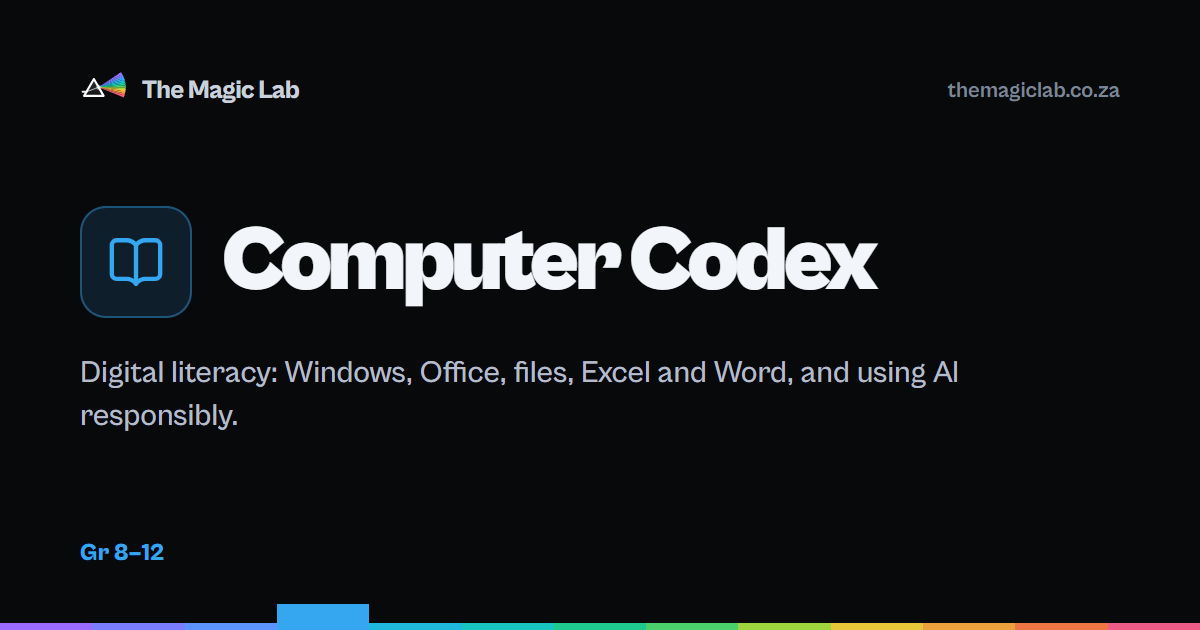
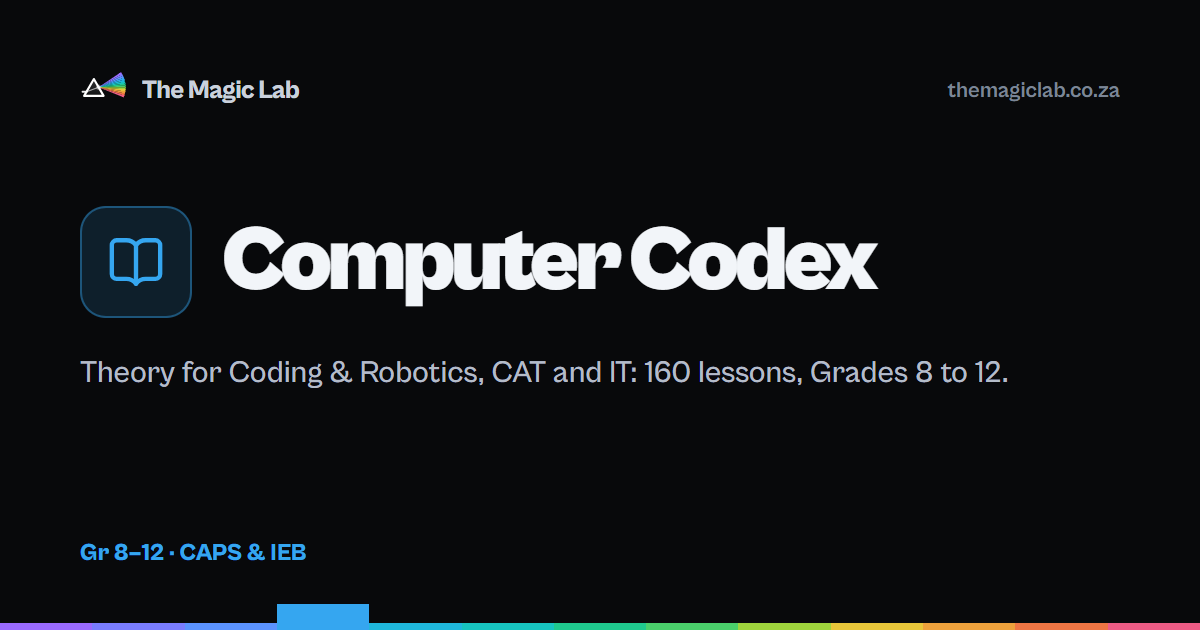
Computer Codex: describe all five tracks, not just Coding & Robotics
Its tool page, homepage card, social card and share text only described
the Grade 8–9 Coding & Robotics track (the app's default view). Computer
Codex has 160 lessons in five tracks: Coding & Robotics (Gr 8–9), and
CAT and IT theory for Grades 10–12 in separate CAPS and IEB tracks. The
page now lists each track's strands, and points IT learners to Code
Conjurer for the Java practical.

Also: seo-build.py no longer skips pages another build script has just
regenerated (it treated them as someone's unfinished edits, so the tool
pages lost their head tags); build-og-cards.js takes OG_SERVER.

Changed region(s): [[0.0617, 0.573, 0.8325, 0.6937], [0.1542, 0.8444, 0.2467, 0.9048]]

diff --git a/tools/computer-codex.html b/tools/computer-codex.html
@@ -7,14 +7,14 @@
 <script src="/assets/theme.js"></script>
   <meta name="viewport" content="width=device-width, initial-scale=1.0">
   <meta name="theme-color" content="#08090b">
-  <title>Computer Codex — Digital literacy: Windows, Word, Excel, computational thinking and AI (Grade 8–9)</title>
+  <title>Computer Codex — CAT, IT theory and Coding &amp; Robotics lessons, Grades 8–12 (CAPS &amp; IEB)</title>
 <!-- ml-seo: generated by scripts/seo-build.py, edit the script not this block -->
-<meta name="description" content="Twenty-seven lessons of digital literacy for Grade 8–9 Coding &amp; Robotics: Windows and files, Word, Excel formulas and charts, computational thinking, pseudo code, flow diagrams and AI, each with a quiz.">
+<meta name="description" content="160 theory lessons in five tracks: Coding &amp; Robotics for Grades 8–9, and Computer Applications Technology and Information Technology for Grades 10–12, each written separately for CAPS and IEB, with a quiz in every lesson.">
 <link rel="canonical" href="https://themagiclab.co.za/tools/computer-codex.html">
 <meta property="og:type" content="website">
 <meta property="og:site_name" content="The Magic Lab">
-<meta property="og:title" content="Computer Codex — Digital literacy: Windows, Word, Excel, computational thinking and AI (Grade 8–9)">
-<meta property="og:description" content="Twenty-seven lessons of digital literacy for Grade 8–9 Coding &amp; Robotics: Windows and files, Word, Excel formulas and charts, computational thinking, pseudo code, flow diagrams and AI, each with a quiz.">
+<meta property="og:title" content="Computer Codex — CAT, IT theory and Coding &amp; Robotics lessons, Grades 8–12 (CAPS &amp; IEB)">
+<meta property="og:description" content="160 theory lessons in five tracks: Coding &amp; Robotics for Grades 8–9, and Computer Applications Technology and Information Technology for Grades 10–12, each written separately for CAPS and IEB, with a quiz in every lesson.">
 <meta property="og:url" content="https://themagiclab.co.za/tools/computer-codex.html">
 <meta property="og:image" content="https://themagiclab.co.za/assets/og/computer-codex.png">
 <meta property="og:image:width" content="1200">
@@ -30,7 +30,7 @@
   <link rel="stylesheet" href="/assets/magic-lab.css">
   <link rel="stylesheet" href="/assets/tool-landing.css">
   <link rel="stylesheet" href="/auth-modal.css">
-  <script type="application/ld+json">{"@context": "https://schema.org", "@type": "WebPage", "name": "Computer Codex — Digital literacy: Windows, Word, Excel, computational thinking and AI (Grade 8–9)", "description": "Twenty-seven lessons of digital literacy for Grade 8–9 Coding & Robotics: Windows and files, Word, Excel formulas and charts, computational thinking, pseudo code, flow diagrams and AI, each with a quiz.", "url": "https://themagiclab.co.za/tools/computer-codex.html", "about": {"@type": "SoftwareApplication", "name": "Computer Codex", "applicationCategory": "EducationalApplication", "operatingSystem": "Web browser", "url": "https://themagiclab.co.za/computer-codex.html"}, "breadcrumb": {"@type": "BreadcrumbList", "itemListElement": [{"@type": "ListItem", "position": 1, "name": "The Magic Lab", "item": "https://themagiclab.co.za/"}, {"@type": "ListItem", "position": 2, "name": "Computer Codex", "item": "https://themagiclab.co.za/tools/computer-codex.html"}]}}</script>
+  <script type="application/ld+json">{"@context": "https://schema.org", "@type": "WebPage", "name": "Computer Codex — CAT, IT theory and Coding & Robotics lessons, Grades 8–12 (CAPS & IEB)", "description": "160 theory lessons in five tracks: Coding & Robotics for Grades 8–9, and Computer Applications Technology and Information Technology for Grades 10–12, each written separately for CAPS and IEB, with a quiz in every lesson.", "url": "https://themagiclab.co.za/tools/computer-codex.html", "about": {"@type": "SoftwareApplication", "name": "Computer Codex", "applicationCategory": "EducationalApplication", "operatingSystem": "Web browser", "url": "https://themagiclab.co.za/computer-codex.html"}, "breadcrumb": {"@type": "BreadcrumbList", "itemListElement": [{"@type": "ListItem", "position": 1, "name": "The Magic Lab", "item": "https://themagiclab.co.za/"}, {"@type": "ListItem", "position": 2, "name": "Computer Codex", "item": "https://themagiclab.co.za/tools/computer-codex.html"}]}}</script>
 </head>
 <body style="--fam: var(--t-codex)">
   <a class="ml-skip" href="#ml-main">Skip to content</a>
@@ -47,9 +47,9 @@
   <main id="ml-main" tabindex="-1">
     <section class="ml-shell tl-lead">
       <div class="tl-name"><span class="tl-icon"><i data-lucide="book-open"></i></span>Computer Codex</div>
-      <div class="tl-eyebrow ml-label"><span class="dot"></span>Grade 8–9 · Coding &amp; Robotics · Digital literacy</div>
-      <h1>The computer skills every learner needs.</h1>
-      <p>Computer Codex covers the practical computer skills learners are expected to have and are rarely taught: using Windows and organising files, Word and Excel, and then the thinking behind coding, from decomposition and algorithms to pseudo code, flow diagrams and how AI and machine learning work.</p>
+      <div class="tl-eyebrow ml-label"><span class="dot"></span>Grade 8–12 · Coding &amp; Robotics, CAT and IT · CAPS &amp; IEB</div>
+      <h1>The theory behind CAT, IT and Coding &amp; Robotics.</h1>
+      <p>Computer Codex holds the theory side of three computing subjects in one place: Coding &amp; Robotics for Grades 8 and 9, and Computer Applications Technology and Information Technology for Grades 10 to 12, with separate CAPS and IEB tracks for both. That is 160 lessons, from using Windows and Excel to networks, databases, OOP, cybercrime and the law, each ending in a quiz.</p>
       <div class="tl-cta" data-tl-cta data-app="/computer-codex.html" data-name="Computer Codex">
         <a class="ml-btn ml-btn--primary" href="/index.html?auth=required&amp;mode=signup&amp;next=/computer-codex.html" data-tl-primary>Create a free account</a>
         <a class="ml-btn ml-btn--ghost" href="/index.html?auth=required&amp;next=/computer-codex.html" data-tl-secondary>Sign in</a>
@@ -59,29 +59,29 @@
 
     <section class="ml-shell">
       <figure class="tl-shot">
-        <img src="/assets/tools/computer-codex.jpg" width="1440" height="900" alt="Computer Codex: Lesson 1, What is an Operating System?" loading="eager">
-        <figcaption>Lesson 1, What is an Operating System?</figcaption>
+        <img src="/assets/tools/computer-codex.jpg" width="1440" height="900" alt="Computer Codex: Lesson 1 of the Coding &amp; Robotics track. Learners pick their subject and grade at the top." loading="eager">
+        <figcaption>Lesson 1 of the Coding &amp; Robotics track. Learners pick their subject and grade at the top.</figcaption>
       </figure>
     </section>
 
     <section class="ml-shell tl-section">
       <h2>What learners do</h2>
-      <div class="tl-feats"><div class="tl-feat"><span class="tl-ficon"><i data-lucide="monitor"></i></span><h3>Hands-on Office skills</h3><p>Word and Excel lessons, from saving and styles to SUMIF, absolute references and charts.</p></div><div class="tl-feat"><span class="tl-ficon"><i data-lucide="puzzle"></i></span><h3>Computational thinking</h3><p>Decomposition, pattern recognition, abstraction and algorithm design, with worked examples.</p></div><div class="tl-feat"><span class="tl-ficon"><i data-lucide="workflow"></i></span><h3>Pseudo code and flow diagrams</h3><p>Plan programs in plain English, then trace and build flow diagrams.</p></div><div class="tl-feat"><span class="tl-ficon"><i data-lucide="check-circle"></i></span><h3>A quiz with every lesson</h3><p>Each lesson ends in a quiz, and 70% completes it.</p></div></div>
+      <div class="tl-feats"><div class="tl-feat"><span class="tl-ficon"><i data-lucide="library"></i></span><h3>Five tracks, one tool</h3><p>Coding &amp; Robotics, CAT (CAPS and IEB) and IT (CAPS and IEB), chosen from the subject and grade menu.</p></div><div class="tl-feat"><span class="tl-ficon"><i data-lucide="git-branch"></i></span><h3>CAPS and IEB written separately</h3><p>The CAPS and IEB tracks follow their own curricula and terminology, not one text relabelled.</p></div><div class="tl-feat"><span class="tl-ficon"><i data-lucide="layers"></i></span><h3>Grade by grade</h3><p>Each senior track runs through Grade 10, 11 and 12, with units for every strand of the subject.</p></div><div class="tl-feat"><span class="tl-ficon"><i data-lucide="check-circle"></i></span><h3>A quiz with every lesson</h3><p>Each lesson ends in a quiz with an explanation for every answer; 70% completes it.</p></div></div>
     </section>
 
     <section class="ml-shell tl-section">
       <h2>What&rsquo;s inside</h2>
-      <div class="tl-groups"><div class="tl-group"><h3>Using a computer</h3><ul><li>The Windows operating system</li><li>File extensions</li><li>Microsoft Office and the ribbon</li></ul></div><div class="tl-group"><h3>Office</h3><ul><li>Microsoft Word: documents, formatting and styles</li><li>Microsoft Excel: formulas and functions, COUNTIF and SUMIF, relative and absolute references, charts</li></ul></div><div class="tl-group"><h3>Thinking like a programmer</h3><ul><li>Computational thinking</li><li>Pseudo code</li><li>Flow diagrams</li><li>Artificial intelligence and machine learning</li></ul></div></div>
+      <div class="tl-groups"><div class="tl-group"><h3>Coding &amp; Robotics · Gr 8–9 · 27 lessons</h3><ul><li>Windows, files and file extensions</li><li>Word and Excel: formulas, COUNTIF and SUMIF, absolute references, charts</li><li>Computational thinking: decomposition, patterns, abstraction, algorithms</li><li>Pseudo code and flow diagrams</li><li>AI, machine learning and large language models</li></ul></div><div class="tl-group"><h3>CAT · Gr 10–12 · CAPS (30) and IEB (29)</h3><ul><li>Systems technologies: hardware, software, choosing systems, troubleshooting</li><li>Network and internet technologies: LANs, WANs, the web, cloud and IoT</li><li>Solution development: spreadsheets, databases and HTML</li><li>Information management and preparing for the PAT</li><li>Social implications: ergonomics, green computing, security, ethics and the law</li></ul></div><div class="tl-group"><h3>IT theory · Gr 10–12 · CAPS (36) and IEB (38)</h3><ul><li>Systems technologies: number systems, the CPU and machine cycle, operating systems and virtualisation</li><li>Communication technologies: networks, topologies, mobile and wireless</li><li>Solution development: algorithms, OOP and GUI programming, arrays, file handling, software engineering</li><li>Data and information management: relational databases, SQL, big data and data mining</li><li>Social implications: cybercrime, privacy, the deep web and emerging technology</li></ul></div></div>
     </section>
 
     <section class="ml-shell tl-section">
       <h2>Questions</h2>
-      <div class="tl-faq"><details class="tl-q"><summary>Which subject is it for?</summary><p>It is built for Grade 8–9 Coding &amp; Robotics, and works for any learner who needs the computer basics before Computer Applications Technology or IT.</p></details><details class="tl-q"><summary>Do learners need Microsoft Office?</summary><p>No. The lessons explain and practise the skills inside Computer Codex; having Word and Excel available makes a good extension.</p></details><details class="tl-q"><summary>How much does it cost?</summary><p>Computer Codex is one of thirteen tools on The Magic Lab. Start with a free account; full access to every tool is one plan, and schools can get a quote for all their learners and teachers.</p></details></div>
+      <div class="tl-faq"><details class="tl-q"><summary>Which subjects and curricula does it cover?</summary><p>Coding &amp; Robotics (Grades 8–9), and Computer Applications Technology and Information Technology (Grades 10–12) for both CAPS and IEB schools. Learners choose their subject and grade inside the tool.</p></details><details class="tl-q"><summary>Is the IT programming practical in here too?</summary><p>Computer Codex is the theory. For Java practicals, IT learners use Code Conjurer, which has its own Grade 10–12 lessons and a Java editor in the browser.</p></details><details class="tl-q"><summary>How much does it cost?</summary><p>Computer Codex is one of thirteen tools on The Magic Lab. Start with a free account; full access to every tool is one plan, and schools can get a quote for all their learners and teachers.</p></details></div>
     </section>
 
     <section class="ml-shell tl-section">
       <h2>Other tools</h2>
-      <div class="tl-rels"><a class="tl-rel" href="/tools/ai-oracle.html" style="--fam: var(--t-oracle)"><span class="tl-ficon"><i data-lucide="sparkles"></i></span><span><strong>AI Oracle</strong><span>Understand AI before you lean on it.</span></span></a><a class="tl-rel" href="/tools/web-wizard.html" style="--fam: var(--t-web)"><span class="tl-ficon"><i data-lucide="globe"></i></span><span><strong>Web Wizard</strong><span>Build websites. See them live.</span></span></a><a class="tl-rel" href="/tools/java-genie.html" style="--fam: var(--t-java)"><span class="tl-ficon"><i data-lucide="code-2"></i></span><span><strong>Java Genie</strong><span>Write real Java. Watch it draw.</span></span></a></div>
+      <div class="tl-rels"><a class="tl-rel" href="/tools/code-conjurer.html" style="--fam: var(--t-conjurer)"><span class="tl-ficon"><i data-lucide="wand-2"></i></span><span><strong>Code Conjurer</strong><span>Java for IT learners, right in the browser.</span></span></a><a class="tl-rel" href="/tools/ai-oracle.html" style="--fam: var(--t-oracle)"><span class="tl-ficon"><i data-lucide="sparkles"></i></span><span><strong>AI Oracle</strong><span>Understand AI before you lean on it.</span></span></a><a class="tl-rel" href="/tools/web-wizard.html" style="--fam: var(--t-web)"><span class="tl-ficon"><i data-lucide="globe"></i></span><span><strong>Web Wizard</strong><span>Build websites. See them live.</span></span></a></div>
     </section>
   </main>
 

diff --git a/scripts/build-og-cards.js b/scripts/build-og-cards.js
@@ -10,7 +10,7 @@
 const puppeteer = require('puppeteer-core');
 const fs = require('fs'), path = require('path');
 const ROOT = path.resolve(__dirname, '..');
-const SERVER = 'http://localhost:8770/';
+const SERVER = process.env.OG_SERVER || 'http://localhost:8770/';
 const CHROME = process.env.CHROME || 'C:/Program Files/Google/Chrome/Application/chrome.exe';
 
 // the catalogue's own order and colours (assets/magic-lab.css --t-*)
@@ -19,7 +19,7 @@ const TOOLS = [
   { id:'code-conjurer', name:'Code Conjurer', icon:'wand-2', hue:0, grades:'Gr 10–12 · IT', line:'Advanced Java for IT learners: classes, arrays, algorithms, exception handling and full OOP.' },
   { id:'ai-oracle', name:'AI Oracle', icon:'sparkles', hue:1, grades:'Gr 8–12', line:'Understand how AI really works, learn to prompt well, and use AI ethically for school.' },
   { id:'java-genie', name:'Java Genie', icon:'code-2', hue:2, grades:'Gr 8–9', line:'Learn Java visually with turtle graphics, loops and interactive tutorials.' },
-  { id:'computer-codex', name:'Computer Codex', icon:'book-open', hue:3, grades:'Gr 8–12', line:'Digital literacy: Windows, Office, files, Excel and Word, and using AI responsibly.' },
+  { id:'computer-codex', name:'Computer Codex', icon:'book-open', hue:3, grades:'Gr 8–12 · CAPS & IEB', line:'Theory for Coding & Robotics, CAT and IT: 160 lessons, Grades 8 to 12.' },
   { id:'web-wizard', name:'Web Wizard', icon:'globe', hue:4, grades:'Gr 8–9', line:'Build websites in HTML and CSS with a live preview. No server, no setup.' },
   { id:'model-mage', name:'Model Mage', icon:'hexagon', hue:5, grades:'Gr 8–12', line:'CAD for 3D printing, and a circuit simulator with a microcontroller you can program.' },
   { id:'drawing-druid', name:'Drawing Druid', icon:'compass', hue:6, grades:'Gr 10–12 · EGD', line:'Engineering Graphics & Design, step by step: constructions, projections, perspective and more.' },

diff --git a/tools/time-turner.html b/tools/time-turner.html
@@ -81,7 +81,7 @@
 
     <section class="ml-shell tl-section">
       <h2>Other tools</h2>
-      <div class="tl-rels"><a class="tl-rel" href="/tools/ai-oracle.html" style="--fam: var(--t-oracle)"><span class="tl-ficon"><i data-lucide="sparkles"></i></span><span><strong>AI Oracle</strong><span>Understand AI before you lean on it.</span></span></a><a class="tl-rel" href="/tools/computer-codex.html" style="--fam: var(--t-codex)"><span class="tl-ficon"><i data-lucide="book-open"></i></span><span><strong>Computer Codex</strong><span>The computer skills every learner needs.</span></span></a><a class="tl-rel" href="/tools/spike-spellcaster.html" style="--fam: var(--t-spike)"><span class="tl-ficon"><i data-lucide="bot"></i></span><span><strong>Spike Spellcaster</strong><span>Code your SPIKE Prime. Test it before the table.</span></span></a></div>
+      <div class="tl-rels"><a class="tl-rel" href="/tools/ai-oracle.html" style="--fam: var(--t-oracle)"><span class="tl-ficon"><i data-lucide="sparkles"></i></span><span><strong>AI Oracle</strong><span>Understand AI before you lean on it.</span></span></a><a class="tl-rel" href="/tools/computer-codex.html" style="--fam: var(--t-codex)"><span class="tl-ficon"><i data-lucide="book-open"></i></span><span><strong>Computer Codex</strong><span>The theory behind CAT, IT and Coding &amp; Robotics.</span></span></a><a class="tl-rel" href="/tools/spike-spellcaster.html" style="--fam: var(--t-spike)"><span class="tl-ficon"><i data-lucide="bot"></i></span><span><strong>Spike Spellcaster</strong><span>Code your SPIKE Prime. Test it before the table.</span></span></a></div>
     </section>
   </main>
 

diff --git a/tools/ai-oracle.html b/tools/ai-oracle.html
@@ -81,7 +81,7 @@
 
     <section class="ml-shell tl-section">
       <h2>Other tools</h2>
-      <div class="tl-rels"><a class="tl-rel" href="/tools/computer-codex.html" style="--fam: var(--t-codex)"><span class="tl-ficon"><i data-lucide="book-open"></i></span><span><strong>Computer Codex</strong><span>The computer skills every learner needs.</span></span></a><a class="tl-rel" href="/tools/code-conjurer.html" style="--fam: var(--t-conjurer)"><span class="tl-ficon"><i data-lucide="wand-2"></i></span><span><strong>Code Conjurer</strong><span>Java for IT learners, right in the browser.</span></span></a><a class="tl-rel" href="/tools/java-genie.html" style="--fam: var(--t-java)"><span class="tl-ficon"><i data-lucide="code-2"></i></span><span><strong>Java Genie</strong><span>Write real Java. Watch it draw.</span></span></a></div>
+      <div class="tl-rels"><a class="tl-rel" href="/tools/computer-codex.html" style="--fam: var(--t-codex)"><span class="tl-ficon"><i data-lucide="book-open"></i></span><span><strong>Computer Codex</strong><span>The theory behind CAT, IT and Coding &amp; Robotics.</span></span></a><a class="tl-rel" href="/tools/code-conjurer.html" style="--fam: var(--t-conjurer)"><span class="tl-ficon"><i data-lucide="wand-2"></i></span><span><strong>Code Conjurer</strong><span>Java for IT learners, right in the browser.</span></span></a><a class="tl-rel" href="/tools/java-genie.html" style="--fam: var(--t-java)"><span class="tl-ficon"><i data-lucide="code-2"></i></span><span><strong>Java Genie</strong><span>Write real Java. Watch it draw.</span></span></a></div>
     </section>
   </main>
 

diff --git a/tools/web-wizard.html b/tools/web-wizard.html
@@ -81,7 +81,7 @@
 
     <section class="ml-shell tl-section">
       <h2>Other tools</h2>
-      <div class="tl-rels"><a class="tl-rel" href="/tools/code-conjurer.html" style="--fam: var(--t-conjurer)"><span class="tl-ficon"><i data-lucide="wand-2"></i></span><span><strong>Code Conjurer</strong><span>Java for IT learners, right in the browser.</span></span></a><a class="tl-rel" href="/tools/java-genie.html" style="--fam: var(--t-java)"><span class="tl-ficon"><i data-lucide="code-2"></i></span><span><strong>Java Genie</strong><span>Write real Java. Watch it draw.</span></span></a><a class="tl-rel" href="/tools/computer-codex.html" style="--fam: var(--t-codex)"><span class="tl-ficon"><i data-lucide="book-open"></i></span><span><strong>Computer Codex</strong><span>The computer skills every learner needs.</span></span></a></div>
+      <div class="tl-rels"><a class="tl-rel" href="/tools/code-conjurer.html" style="--fam: var(--t-conjurer)"><span class="tl-ficon"><i data-lucide="wand-2"></i></span><span><strong>Code Conjurer</strong><span>Java for IT learners, right in the browser.</span></span></a><a class="tl-rel" href="/tools/java-genie.html" style="--fam: var(--t-java)"><span class="tl-ficon"><i data-lucide="code-2"></i></span><span><strong>Java Genie</strong><span>Write real Java. Watch it draw.</span></span></a><a class="tl-rel" href="/tools/computer-codex.html" style="--fam: var(--t-codex)"><span class="tl-ficon"><i data-lucide="book-open"></i></span><span><strong>Computer Codex</strong><span>The theory behind CAT, IT and Coding &amp; Robotics.</span></span></a></div>
     </section>
   </main>
 

diff --git a/computer-codex.html b/computer-codex.html
@@ -9,12 +9,12 @@
   <meta name="theme-color" content="#0a0f1e">
   <title>Computer Codex — Digital Literacy</title>
 <!-- ml-seo: generated by scripts/seo-build.py, edit the script not this block -->
-<meta name="description" content="Digital literacy for Grades 8–12: Windows, Office, file management, Excel and Word, and a unit on using AI responsibly.">
+<meta name="description" content="160 theory lessons: Coding &amp; Robotics for Grades 8–9, and CAT and IT for Grades 10–12, in separate CAPS and IEB tracks, each lesson with a quiz.">
 <link rel="canonical" href="https://themagiclab.co.za/computer-codex.html">
 <meta property="og:type" content="website">
 <meta property="og:site_name" content="The Magic Lab">
 <meta property="og:title" content="Computer Codex — Digital Literacy">
-<meta property="og:description" content="Digital literacy for Grades 8–12: Windows, Office, file management, Excel and Word, and a unit on using AI responsibly.">
+<meta property="og:description" content="160 theory lessons: Coding &amp; Robotics for Grades 8–9, and CAT and IT for Grades 10–12, in separate CAPS and IEB tracks, each lesson with a quiz.">
 <meta property="og:url" content="https://themagiclab.co.za/computer-codex.html">
 <meta property="og:image" content="https://themagiclab.co.za/assets/og/computer-codex.png">
 <meta property="og:image:width" content="1200">

diff --git a/index.html b/index.html
@@ -674,7 +674,7 @@
         </div>
         <div class="tool-body">
           <h3 class="tool-name">Computer Codex</h3>
-          <p class="tool-desc">Digital literacy essentials — Windows, Office, file management, Excel and Word, plus a unit on AI, LLMs and ethical AI use.</p>
+          <p class="tool-desc">The theory for Coding &amp; Robotics (Gr 8–9), and for CAT and IT (Gr 10–12) in separate CAPS and IEB tracks. 160 lessons, each with a quiz.</p>
         </div>
         <div class="tool-foot">
           <div class="tool-tags">

diff --git a/scripts/build-tool-pages.py b/scripts/build-tool-pages.py
@@ -72,22 +72,22 @@ TOOLS = [
     related=['code-conjurer', 'web-wizard', 'robot-realm']),
 
   dict(id='computer-codex', name='Computer Codex', app='/computer-codex.html', icon='book-open', hue='codex',
-    eyebrow='Grade 8–9 · Coding & Robotics · Digital literacy',
-    title='Computer Codex — Digital literacy: Windows, Word, Excel, computational thinking and AI (Grade 8–9)',
-    desc='Twenty-seven lessons of digital literacy for Grade 8–9 Coding & Robotics: Windows and files, Word, Excel formulas and charts, computational thinking, pseudo code, flow diagrams and AI, each with a quiz.',
-    h1='The computer skills every learner needs.',
-    intro='Computer Codex covers the practical computer skills learners are expected to have and are rarely taught: using Windows and organising files, Word and Excel, and then the thinking behind coding, from decomposition and algorithms to pseudo code, flow diagrams and how AI and machine learning work.',
-    shot='Lesson 1, What is an Operating System?',
-    features=[('monitor', 'Hands-on Office skills', 'Word and Excel lessons, from saving and styles to SUMIF, absolute references and charts.'),
-              ('puzzle', 'Computational thinking', 'Decomposition, pattern recognition, abstraction and algorithm design, with worked examples.'),
-              ('workflow', 'Pseudo code and flow diagrams', 'Plan programs in plain English, then trace and build flow diagrams.'),
-              ('check-circle', 'A quiz with every lesson', 'Each lesson ends in a quiz, and 70% completes it.')],
-    topics=[('Using a computer', ['The Windows operating system', 'File extensions', 'Microsoft Office and the ribbon']),
-            ('Office', ['Microsoft Word: documents, formatting and styles', 'Microsoft Excel: formulas and functions, COUNTIF and SUMIF, relative and absolute references, charts']),
-            ('Thinking like a programmer', ['Computational thinking', 'Pseudo code', 'Flow diagrams', 'Artificial intelligence and machine learning'])],
-    faq=[('Which subject is it for?', 'It is built for Grade 8–9 Coding & Robotics, and works for any learner who needs the computer basics before Computer Applications Technology or IT.'),
-         ('Do learners need Microsoft Office?', 'No. The lessons explain and practise the skills inside Computer Codex; having Word and Excel available makes a good extension.')],
-    related=['ai-oracle', 'web-wizard', 'java-genie']),
+    eyebrow='Grade 8–12 · Coding & Robotics, CAT and IT · CAPS & IEB',
+    title='Computer Codex — CAT, IT theory and Coding & Robotics lessons, Grades 8–12 (CAPS & IEB)',
+    desc='160 theory lessons in five tracks: Coding & Robotics for Grades 8–9, and Computer Applications Technology and Information Technology for Grades 10–12, each written separately for CAPS and IEB, with a quiz in every lesson.',
+    h1='The theory behind CAT, IT and Coding & Robotics.',
+    intro='Computer Codex holds the theory side of three computing subjects in one place: Coding & Robotics for Grades 8 and 9, and Computer Applications Technology and Information Technology for Grades 10 to 12, with separate CAPS and IEB tracks for both. That is 160 lessons, from using Windows and Excel to networks, databases, OOP, cybercrime and the law, each ending in a quiz.',
+    shot='Lesson 1 of the Coding & Robotics track. Learners pick their subject and grade at the top.',
+    features=[('library', 'Five tracks, one tool', 'Coding & Robotics, CAT (CAPS and IEB) and IT (CAPS and IEB), chosen from the subject and grade menu.'),
+              ('git-branch', 'CAPS and IEB written separately', 'The CAPS and IEB tracks follow their own curricula and terminology, not one text relabelled.'),
+              ('layers', 'Grade by grade', 'Each senior track runs through Grade 10, 11 and 12, with units for every strand of the subject.'),
+              ('check-circle', 'A quiz with every lesson', 'Each lesson ends in a quiz with an explanation for every answer; 70% completes it.')],
+    topics=[('Coding & Robotics · Gr 8–9 · 27 lessons', ['Windows, files and file extensions', 'Word and Excel: formulas, COUNTIF and SUMIF, absolute references, charts', 'Computational thinking: decomposition, patterns, abstraction, algorithms', 'Pseudo code and flow diagrams', 'AI, machine learning and large language models']),
+            ('CAT · Gr 10–12 · CAPS (30) and IEB (29)', ['Systems technologies: hardware, software, choosing systems, troubleshooting', 'Network and internet technologies: LANs, WANs, the web, cloud and IoT', 'Solution development: spreadsheets, databases and HTML', 'Information management and preparing for the PAT', 'Social implications: ergonomics, green computing, security, ethics and the law']),
+            ('IT theory · Gr 10–12 · CAPS (36) and IEB (38)', ['Systems technologies: number systems, the CPU and machine cycle, operating systems and virtualisation', 'Communication technologies: networks, topologies, mobile and wireless', 'Solution development: algorithms, OOP and GUI programming, arrays, file handling, software engineering', 'Data and information management: relational databases, SQL, big data and data mining', 'Social implications: cybercrime, privacy, the deep web and emerging technology'])],
+    faq=[('Which subjects and curricula does it cover?', 'Coding & Robotics (Grades 8–9), and Computer Applications Technology and Information Technology (Grades 10–12) for both CAPS and IEB schools. Learners choose their subject and grade inside the tool.'),
+         ('Is the IT programming practical in here too?', 'Computer Codex is the theory. For Java practicals, IT learners use Code Conjurer, which has its own Grade 10–12 lessons and a Java editor in the browser.')],
+    related=['code-conjurer', 'ai-oracle', 'web-wizard']),
 
   dict(id='web-wizard', name='Web Wizard', app='/web-wizard.html', icon='globe', hue='web',
     eyebrow='Grade 8–9 · Coding',

diff --git a/scripts/seo-build.py b/scripts/seo-build.py
@@ -34,7 +34,7 @@ SHARE_ONLY = {
     'code-conjurer.html': 'Advanced Java for IT learners, Grades 10–12: classes, arrays, algorithms, exception handling and full OOP, in a browser-based IDE.',
     'ai-oracle.html': 'Understand how AI really works, learn to prompt well, and use AI ethically for studying, research and assignments. Grades 8–12.',
     'java-genie.html': 'Learn Java visually with turtle graphics, loops and interactive tutorials. Write real programs from day one. Grades 8–9.',
-    'computer-codex.html': 'Digital literacy for Grades 8–12: Windows, Office, file management, Excel and Word, and a unit on using AI responsibly.',
+    'computer-codex.html': '160 theory lessons: Coding & Robotics for Grades 8–9, and CAT and IT for Grades 10–12, in separate CAPS and IEB tracks, each lesson with a quiz.',
     'web-wizard.html': 'Build websites in HTML and CSS with a live preview, in the browser. No server, no setup. Grades 8–9.',
     'model-mage-cad.html': 'Browser-based parametric CAD: sketch a profile, extrude it, cut holes and fillet edges, then export it for 3D printing.',
     'model-mage-circuits.html': 'Build circuits on a virtual breadboard, run a live simulation and program a microcontroller in code or blocks.',
@@ -239,8 +239,9 @@ def main():
                 capture_output=True, text=True).stdout.splitlines() if l[:2].strip() == 'M')
 
     def save(rel, s, orig):
-        # (a page this script has already processed is fair game: its pending changes are ours)
-        if s != orig and rel in dirty and '<!-- ml-seo' not in orig:
+        # (a page this script has already processed is fair game: its pending changes are
+        # ours; so is a page another build script just generated)
+        if s != orig and rel in dirty and '<!-- ml-seo' not in orig and 'Generated by scripts/' not in orig[:400]:
             print('  skipped (has uncommitted changes):', rel)
             return
         if s != orig:
